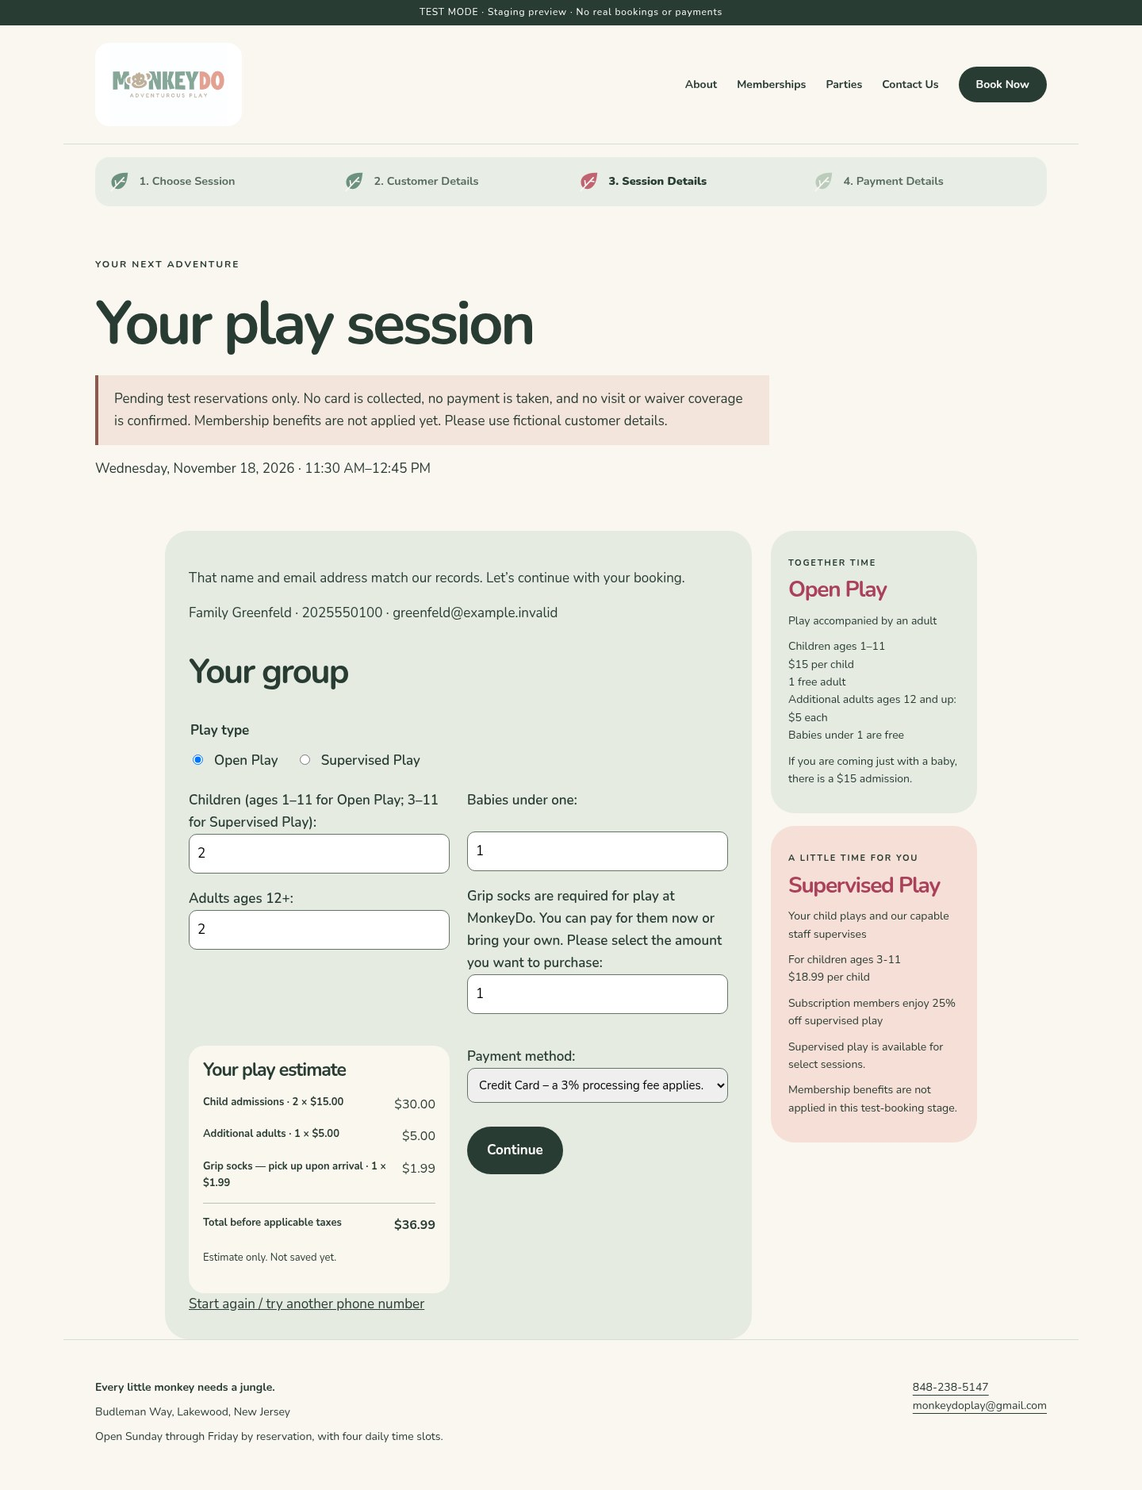
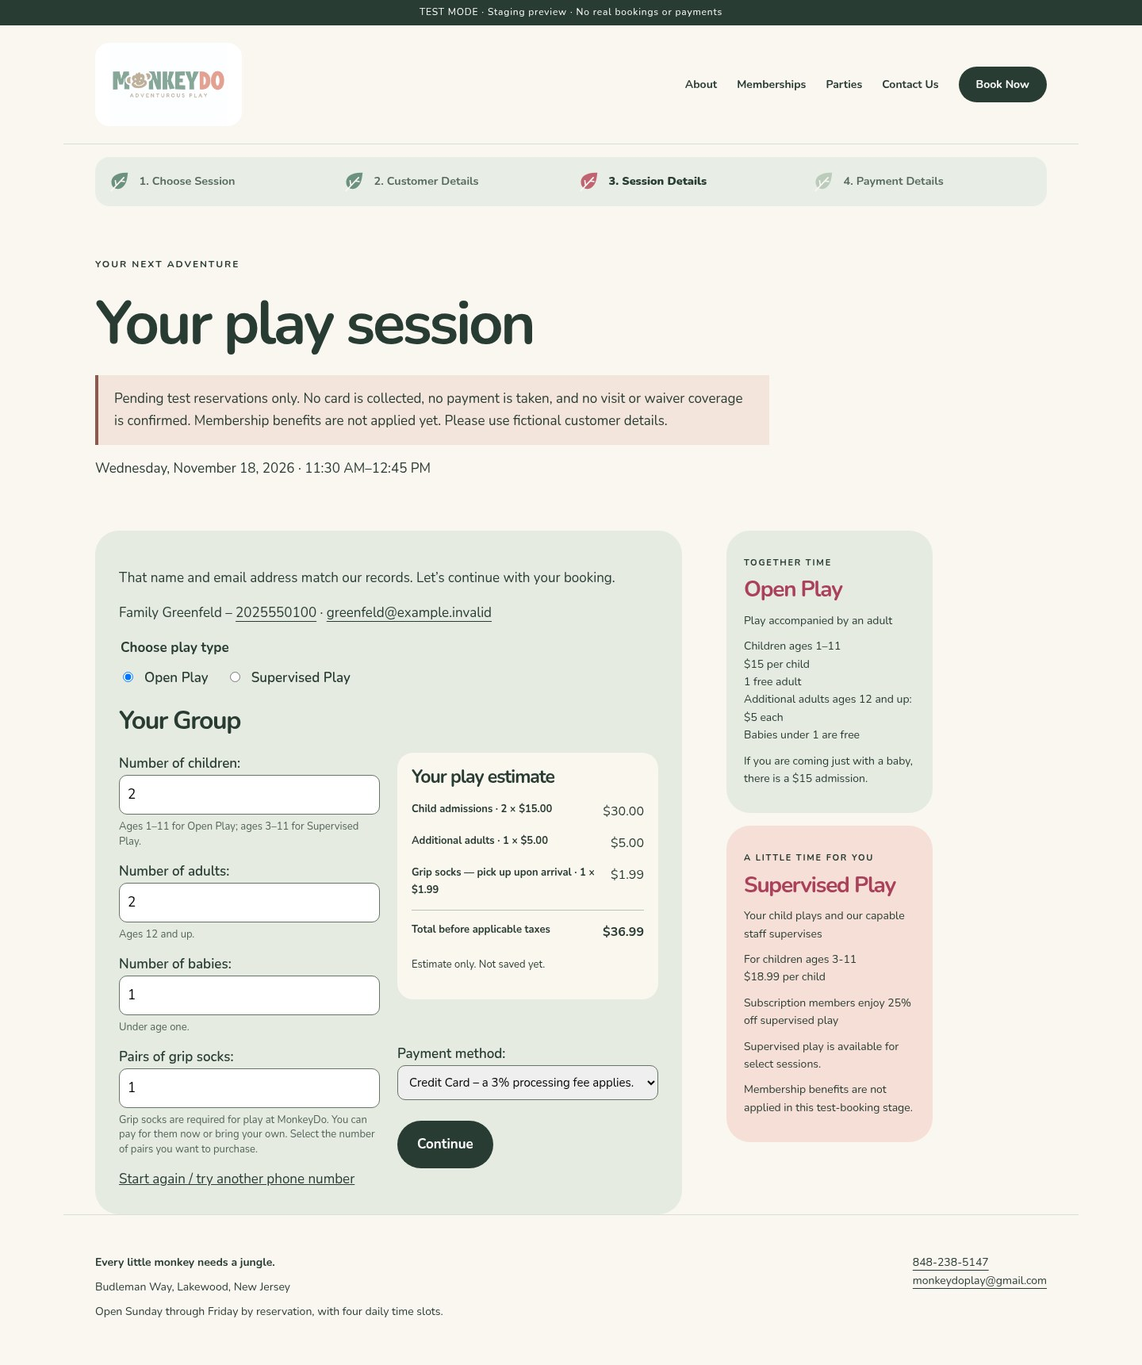
Refine booking form layout and clarify quantity inputs

diff --git a/templates/core/customer_booking.html b/templates/core/customer_booking.html
@@ -18,11 +18,10 @@
 {% if flow.stage == 'conflict_name' %}<p>The email address ‘{{ flow.conflict_email }}’ doesn't match the phone number ‘{{ flow.phone }}’, however we did find it in our system associated with another customer. Please enter your name, and we'll check it against our records.</p>{% endif %}
 {% if flow.stage == 'conflict_stop' %}<ul class="errorlist"><li>{{ flow.conflict_message }}</li></ul>{% endif %}
 {% if flow.stage == 'previous' %}<p>Looks like you've been to Monkey Do in the past. We found a customer record with your number, along with an updated number of {{ flow.current_phone }}. Please confirm if this is your phone number.</p>{% endif %}
-{% if customer %}{% if flow.stage != 'review' %}{% if flow.verification_mode == 'fourth_match' %}<p>{% if flow.verified_by == 'both' %}That name and email address match our records.{% elif flow.verified_by == 'email' %}That email address matches our records.{% else %}That name matches our records.{% endif %} Let’s continue with your booking.</p>{% elif flow.verification_mode == 'previous' %}<p>Please go ahead with your booking.</p>{% elif flow.verification_mode == 'name_confirm' %}<p>Your name confirmation was saved. Please go ahead with your booking.</p>{% elif flow.verification_mode == 'email_confirm' %}<p>Your details match our records. Let’s continue with your booking.</p>{% else %}<p>That name matches our records. Let’s continue with your booking.</p>{% endif %}{% endif %}<p>Family {{ customer.last_name }} · {{ customer.phone }}{% if customer.email %} · {{ customer.email }}{% endif %}</p>{% elif flow.contact %}<p>Family {{ flow.contact.last_name }} · {{ flow.phone }} · {{ flow.contact.email }}</p>{% endif %}
+{% if customer %}{% if flow.stage != 'review' %}{% if flow.verification_mode == 'fourth_match' %}<p>{% if flow.verified_by == 'both' %}That name and email address match our records.{% elif flow.verified_by == 'email' %}That email address matches our records.{% else %}That name matches our records.{% endif %} Let’s continue with your booking.</p>{% elif flow.verification_mode == 'previous' %}<p>Please go ahead with your booking.</p>{% elif flow.verification_mode == 'name_confirm' %}<p>Your name confirmation was saved. Please go ahead with your booking.</p>{% elif flow.verification_mode == 'email_confirm' %}<p>Your details match our records. Let’s continue with your booking.</p>{% else %}<p>That name matches our records. Let’s continue with your booking.</p>{% endif %}{% endif %}{% if flow.stage == 'details' %}<p class="booking-customer-summary">Family {{ customer.last_name }} – <a href="tel:{{ customer.phone }}">{{ customer.phone }}</a>{% if customer.email %} · <a href="mailto:{{ customer.email }}">{{ customer.email }}</a>{% endif %}</p>{% else %}<p>Family {{ customer.last_name }} · {{ customer.phone }}{% if customer.email %} · {{ customer.email }}{% endif %}</p>{% endif %}{% elif flow.contact %}{% if flow.stage == 'details' %}<p class="booking-customer-summary">Family {{ flow.contact.last_name }} – <a href="tel:{{ flow.phone }}">{{ flow.phone }}</a> · <a href="mailto:{{ flow.contact.email }}">{{ flow.contact.email }}</a></p>{% else %}<p>Family {{ flow.contact.last_name }} · {{ flow.phone }} · {{ flow.contact.email }}</p>{% endif %}{% endif %}
 {% if flow.stage == 'email' %}<h2>Add your email address</h2><p>Your customer record doesn’t have an email address yet. Please enter one to continue.</p>{% endif %}
 {% if flow.contact_email %}<p>Email for this booking: {{ flow.contact_email }}</p>{% endif %}
 {% if flow.stage == 'contact' %}<h2>Your details</h2><p>Phone: {{ flow.phone }}</p>{% endif %}
-{% if flow.stage == 'details' %}<h2>Your group</h2>{% endif %}
 {% if flow.stage == 'review' %}<h2>Payment Details</h2>
 <p>{% if flow.details.supervised %}Supervised Play{% else %}Open Play{% endif %} · {{ flow.details.children }} children · {{ flow.details.adults }} adults · {{ flow.details.babies }} babies · {{ flow.details.socks }} pairs of socks</p>
 {% include 'core/quote_items.html' with data=quote %}

diff --git a/static/core/site.css b/static/core/site.css
@@ -923,7 +923,7 @@ input[type="checkbox"],input[type="radio"] { width:auto; padding:0; margin-right
 .table-filters .clear-dates { position:absolute; right:6px; top:4px }
 
 /* Fourth owner-feedback batch: public group layout and compact staff lists. */
-.customer-booking-layout.with-play-info { grid-template-columns:minmax(0,740px) 260px; max-width:1024px; margin-inline:auto }
+.customer-booking-layout.with-play-info { grid-template-columns:minmax(0,740px) 260px; gap:56px; max-width:1056px; margin-inline:0 }
 .public-details-layout { display:grid; grid-template-columns:repeat(2,minmax(0,1fr)); gap:22px; align-items:start }
 .public-play-choice { grid-column:1 / -1; padding:0; border:0; margin:0 }
 .public-play-choice legend { font-weight:700; margin-bottom:10px }
@@ -931,9 +931,13 @@ input[type="checkbox"],input[type="radio"] { width:auto; padding:0; margin-right
 .public-play-choice label { display:flex; align-items:flex-start; gap:6px; margin:0 }
 .public-play-choice label:has(input:disabled) { color:#737c76; cursor:not-allowed }
 .public-play-choice input { flex:none; margin-top:6px }
-.public-attendees,.public-additions,.public-payment { min-width:0 }
-.public-attendees .form-field:first-child label,.public-additions .form-field:first-child label { display:block; min-height:3.1em }
-.public-details-layout .form-field { margin-bottom:18px }
+.public-group-heading { grid-column:1 / -1; margin:0; font-size:32px }
+.public-quantities,.public-right,.public-payment { min-width:0 }
+.public-right { display:flex; flex-direction:column; align-self:stretch; gap:28px }
+.public-right .public-payment { margin-top:auto }
+.public-details-layout .form-field { margin-bottom:14px }
+.public-quantities .field-help { margin:6px 0 0; font-size:13px; line-height:1.45; color:#536459 }
+.booking-customer-summary { overflow-wrap:anywhere }
 .public-details-layout .live-booking-estimate { align-self:start; margin:0 }
 .public-payment .button { margin-top:12px }
 .public-payment select { max-width:100%; font-size:15px }
@@ -953,12 +957,11 @@ input[type="checkbox"],input[type="radio"] { width:auto; padding:0; margin-right
 .page-links a,.page-links .current-page { padding:5px 10px; border-radius:8px }
 .page-links .current-page { background:#293e34; color:#fff; font-weight:700 }
 .page-disabled { color:#69746c; padding:5px 8px }
-@media(max-width:1000px) { .customer-booking-layout.with-play-info { grid-template-columns:minmax(0,1fr) 230px; gap:18px } }
+@media(max-width:1000px) { .customer-booking-layout.with-play-info { grid-template-columns:minmax(0,1fr) 230px; gap:32px } }
 @media(max-width:850px) { .customer-booking-layout.with-play-info { display:block; max-width:740px } .booking-play-info { margin-top:24px; grid-template-columns:repeat(2,minmax(0,1fr)) } }
 @media(max-width:560px) {
  .public-details-layout { display:flex; flex-direction:column; gap:12px }
- .public-details-layout>*,.public-attendees,.public-additions,.public-payment { width:100% }
- .public-attendees .form-field:first-child label,.public-additions .form-field:first-child label { min-height:0 }
+ .public-details-layout>*,.public-quantities,.public-right,.public-payment { width:100% }
  .booking-play-info { grid-template-columns:minmax(0,1fr) }
  .customer-list-search .customer-search-field { flex-basis:100% }
  .staff-pagination { align-items:flex-start }

diff --git a/templates/core/partials/public_details_form.html b/templates/core/partials/public_details_form.html
@@ -1,15 +1,17 @@
-<fieldset class="public-play-choice"><legend>Play type</legend>{{ form.play_type.errors }}{{ form.play_type }}</fieldset>
+<fieldset class="public-play-choice"><legend>Choose play type</legend>{{ form.play_type.errors }}{{ form.play_type }}</fieldset>
 {{ form.non_field_errors }}
-<div class="public-attendees">
+<h2 class="public-group-heading">Your Group</h2>
+<div class="public-quantities">
 {% include 'core/partials/public_field.html' with field=form.children %}
 {% include 'core/partials/public_field.html' with field=form.adults %}
-</div>
-<div class="public-additions">
+
 {% include 'core/partials/public_field.html' with field=form.babies %}
 {% include 'core/partials/public_field.html' with field=form.socks %}
 </div>
+<div class="public-right">
 <aside class="live-booking-estimate" aria-label="Live price estimate"><h3>Your play estimate</h3><div data-public-estimate-content>{% include 'core/partials/live_quote.html' with data=live_quote %}</div><p class="caption" role="status" data-public-estimate-status>Updates as you change your selections.</p></aside>
 <div class="public-payment">
 {% include 'core/partials/public_field.html' with field=form.expected_method %}
 <button class="button">Continue</button>
+</div>
 </div>

diff --git a/templates/core/partials/public_field.html b/templates/core/partials/public_field.html
@@ -1,4 +1,4 @@
 <div class="form-field">
 {{ field.errors }}{{ field.label_tag }}{{ field }}
-{% if field.help_text %}<p class="field-help">{{ field.help_text }}</p>{% endif %}
+{% if field.help_text %}<p class="field-help" id="{{ field.auto_id }}_helptext">{{ field.help_text }}</p>{% endif %}
 </div>

diff --git a/core/public_booking_views.py b/core/public_booking_views.py
@@ -170,10 +170,15 @@ class DetailsForm(forms.Form):
         min_value=0,
         max_value=35,
         initial=1,
-        label="Children (ages 1–11 for Open Play; 3–11 for Supervised Play)",
+        label="Number of children",
+        help_text="Ages 1–11 for Open Play; ages 3–11 for Supervised Play.",
     )
-    adults = forms.IntegerField(min_value=0, max_value=50, initial=1, label="Adults ages 12+")
-    babies = forms.IntegerField(min_value=0, max_value=50, initial=0, label="Babies under one")
+    adults = forms.IntegerField(
+        min_value=0, max_value=50, initial=1, label="Number of adults", help_text="Ages 12 and up."
+    )
+    babies = forms.IntegerField(
+        min_value=0, max_value=50, initial=0, label="Number of babies", help_text="Under age one."
+    )
     socks = forms.IntegerField(min_value=0, max_value=35, initial=0, label="Pairs of grip socks")
     expected_method = forms.ChoiceField(
         choices=Booking._meta.get_field("expected_method").choices, label="Payment method"
@@ -208,7 +213,7 @@ class DetailsForm(forms.Form):
             self.fields["adults"].initial = self.fields["babies"].initial = 0
         self.fields[
             "socks"
-        ].label = "Grip socks are required for play at MonkeyDo. You can pay for them now or bring your own. Please select the amount you want to purchase:"
+        ].help_text = "Grip socks are required for play at MonkeyDo. You can pay for them now or bring your own. Select the number of pairs you want to purchase."
         self.fields["expected_method"].choices = payment_method_choices(
             PricingPolicy.objects.first()
         )

diff --git a/docs/MONKEYDO_REQUIREMENTS.md b/docs/MONKEYDO_REQUIREMENTS.md
@@ -134,7 +134,7 @@ Collect Last Name, phone, email, date/session, baby/child/adult quantities, calc
 
 Validate in browser and server: required fields/consent, nonnegative integer counts, nonzero attendance, adult rule where applicable, card setup unless owner-comped, availability/end time, capacity and permissions. Online waiver must be covered before booking completes; admin/phone bookings may confirm pending.
 
-The visible public progress indicator has four steps: Choose Session, Customer Details, Session Details, Payment Details. Expected payment-method selection stays in Session Details; the breakdown and final reviewed save action live in Payment Details, without a separate visible Review step. Show completion afterward. Add a waiver step only when the approved waiver workflow is implemented. Show an itemized calculation before confirmation. Public Session Details has a read-only live estimate labelled Total before applicable taxes, placed in the lower-left part of the form, with Payment method and Continue parallel on the right. Children/Adults are above left and Babies/Grip socks above right. The live estimate shows only admissions/adults/socks and their base subtotal, excluding both card-processing fees and tax from its rows and total; final Payment Details shows the complete fee/tax-inclusive breakdown. Stack compact Open/Supervised information cards without booking buttons outside the form on desktop and below it on phones. Save immutable price/tax/fee/policy snapshots; an authorized edit creates a new revision with before/after audit, not silent rewriting of the original. Future owner pricing/settings do not alter accepted existing bookings or cohort prices.
+The visible public progress indicator has four steps: Choose Session, Customer Details, Session Details, Payment Details. Expected payment-method selection stays in Session Details; the breakdown and final reviewed save action live in Payment Details, without a separate visible Review step. Show completion afterward. Add a waiver step only when the approved waiver workflow is implemented. Show an itemized calculation before confirmation. Public Session Details has a read-only live estimate labelled Total before applicable taxes, placed at the upper right of the quantity section, with Payment method and Continue below it at the bottom right. All four quantity inputs stack on the left. Show Family/contact links, Choose play type, then Your Group; use quantity labels with separate age guidance. The live estimate shows only admissions/adults/socks and their base subtotal, excluding both card-processing fees and tax from its rows and total; final Payment Details shows the complete fee/tax-inclusive breakdown. Stack compact Open/Supervised information cards without booking buttons outside the form on desktop and below it on phones. Save immutable price/tax/fee/policy snapshots; an authorized edit creates a new revision with before/after audit, not silent rewriting of the original. Future owner pricing/settings do not alter accepted existing bookings or cohort prices.
 
 ## 7. Customers and public identification
 
@@ -363,9 +363,12 @@ review. Only the redesigned customer booking page needs screenshots now; other
 changes will receive owner interactive acceptance after approved deployment.
 See [complete scope/branch matrix](OWNER_EDITS_BATCH_4.md).
 
-- Public Session Details uses narrower fields/panel: Children/Adults upper left,
-  Babies/Grip socks upper right, item-only estimate lower left and Payment
-  method/Continue lower right; responsive phone stacking. Do not show the card's
+- Public Session Details uses a narrower, left-aligned green panel with a clear
+  gap before outside play cards. Show Family/contact links, Choose play type and
+  then Your Group. All four quantity inputs stack on the left; item-only estimate
+  is upper right and Payment method/Continue bottom right. Use Number of
+  children/adults/babies and Pairs of grip socks, with ages in separate help;
+  responsive phone stacking. Do not show the card's
   Check the booking page instruction here; keep homepage/About wording intact.
 - Always show both public play choices; disable/label unavailable ones. Default
   Open when available, Supervised for supervised-only sessions. Public Supervised

diff --git a/docs/OWNER_EDITS_BATCH_4.md b/docs/OWNER_EDITS_BATCH_4.md
@@ -13,7 +13,7 @@ with booking-page image comments; do not merge/deploy before that review.
 | Item | Implemented behavior |
 | --- | --- |
 | 1 | Omit Check the booking page to see which sessions offer it only from the booking-page Supervised Play information card. Preserve homepage/About wording. |
-| 2 | Narrower green booking panel/inputs. Upper left Children/Adults, upper right Babies/Grip socks; lower left item-only estimate, lower right Payment method/Continue. Stack on phones. |
+| 2 | Narrower left-aligned green panel/inputs with a clear gap before outside play cards. Family/contact links, Choose play type, then Your Group. All four quantity fields stack left; estimate upper right and Payment method/Continue bottom right. Quantity labels are explicit; age guidance is separate. Stack on phones. |
 | 3 | Public form always shows Open/Supervised radios; unavailable choices are disabled/labelled. Open is default when available; supervised-only defaults to Supervised. Public Supervised selection resets adults/babies to zero and makes them read-only, with Supervised play is children only popup on attempted change. Restore prior Open values when switching back. Staff retain validation rather than locking. Estimate recalculates after the reset; server still rejects forged/nonzero supervised quantities. |
 | 4 | Customers search input is narrower, with type selector and Search aligned on desktop; All types remains the initial selection. Responsive stacking retains usability. |
 | 5 | Bookings, Today, Customers and Membership drafts have 10/25/50/100 rows, default 25, numbered/Previous/Next links, preserved filters/sort and page-one reset on size/filter change. Today totals/matching count remain independent of the displayed page. |
@@ -71,3 +71,20 @@ checks remain. No hosted change, payment/card/waiver integration, active benefit
 legacy-booking relabelling or next-phase operational development is included.
 The prior next-phase documentation alignment is included in this branch; it
 records plans, not implemented integrations. Homepage design remains unchanged.
+
+
+## Booking-page image review follow-up
+
+The owner replaced the earlier two-by-two quantity arrangement: keep narrow
+spacing, align the green panel left with separation before the outside play cards,
+then Family/contact, Choose play type, and Your Group. All four quantity inputs
+stack on the left; the estimate is upper right and payment/Continue lower right.
+Labels say Number of children/adults/babies and Pairs of grip socks, with ages
+and sock instructions as separate help, so inputs cannot be mistaken for ages.
+Phone/email are linked in the details summary. This supersedes the original
+layout clarification, without changing quantity validation, pricing or matching.
+
+The follow-up passed 41 affected public-booking tests and Chromium layout/control
+checks at 1440px, 390px and 320px. Eight booking-page JPGs were refreshed. The
+prior full suite was 428 tests; GitHub runs the full suite again for the new head.
+This is the same draft PR and still awaits the owner's page-image approval.

diff --git a/docs/design-review/owner-edits-batch-4/README.md b/docs/design-review/owner-edits-batch-4/README.md
@@ -7,7 +7,7 @@ approved deployment. Hosted staging has not changed.
 
 | Booking-page state | Desktop | Phone |
 | --- | --- | --- |
-| Open Play — new two-column fields, estimate left/payment right | [Desktop JPG](01-booking-open-play-desktop.jpg) | [Phone JPG](01-booking-open-play-phone.jpg) |
+| Open Play — four quantity fields left, estimate/payment right | [Desktop JPG](01-booking-open-play-desktop.jpg) | [Phone JPG](01-booking-open-play-phone.jpg) |
 | Supervised Play — adults/babies zero and locked | [Desktop JPG](02-booking-supervised-play-desktop.jpg) | [Phone JPG](02-booking-supervised-play-phone.jpg) |
 | Open-only session — Supervised choice visible but unavailable | [Desktop JPG](03-booking-open-only-session-desktop.jpg) | [Phone JPG](03-booking-open-only-session-phone.jpg) |
 | Supervised-only session — Open choice visible but unavailable | [Desktop JPG](04-booking-supervised-only-session-desktop.jpg) | [Phone JPG](04-booking-supervised-only-session-phone.jpg) |
@@ -23,3 +23,11 @@ Homepage/About imagery and layout are unchanged.
 
 [Implementation/branch rules](../../OWNER_EDITS_BATCH_4.md) ·
 [Browser and image evidence](verification.json)
+
+
+Latest image-review revision: the narrower green panel aligns left with a clear
+gap before the outside cards. Family/contact links precede Choose play type and
+Your Group. Four inputs stack left with explicit quantity labels and separate
+age guidance; the estimate is upper right, payment/Continue bottom right. All
+eight JPGs reflect this revision. The 41 affected public-booking tests and browser
+checks passed; the PR remains a draft for image approval.

diff --git a/docs/STAGING_TEST_PLAN.md b/docs/STAGING_TEST_PLAN.md
@@ -273,8 +273,10 @@ Local developer regression/browser checks passed; owner booking-page screenshot
 review is pending. Other changed pages/scenarios receive owner interactive tests
 after approved deployment, per this batch's explicit review instruction.
 
-- B4-LAYOUT: upper Children/Adults versus Babies/Grip socks, lower estimate versus
-  Payment/Continue; narrower fields/panel, phone stacking and 320px no overflow.
+- B4-LAYOUT: left-aligned narrow panel with outside-card separation; Family/contact,
+  Choose play type and Your Group order. Four quantity fields stack left, estimate
+  upper right and Payment/Continue bottom right. Quantity labels and separate age
+  help, phone stacking and 320px no overflow.
   Check only booking card omits Check the booking page; homepage/About unchanged.
 - B4-PLAY: both radios visible, unavailable disabled, Open default/supervised-only
   exception; public zero/lock/popup/estimate, restored Open counts; forged values

diff --git a/docs/CUSTOMER_BOOKING_DEVELOPMENT.md b/docs/CUSTOMER_BOOKING_DEVELOPMENT.md
@@ -136,8 +136,11 @@ field remains absent.
 
 ## Fourth batch — public layout and scoped verification
 
-The narrower public form groups Children/Adults left and Babies/Grip socks right,
-then estimate left and Payment method/Continue right. Always show both play
+The narrower public panel aligns left with space before the outside play cards.
+Its order is Family/contact links, Choose play type, then Your Group. All four
+quantity inputs stack on the left, with the estimate upper right and Payment
+method/Continue bottom right. Quantity labels are explicit and age guidance is
+separate; this supersedes the initial fourth-batch layout after image review. Always show both play
 choices, disabling unavailable ones. Open defaults when possible; supervised-only
 uses Supervised. Public Supervised sets/locks adults/babies to zero, reports an
 attempted edit with the approved popup and recalculates the estimate. Switching

diff --git a/docs/DECISION_LOG.md b/docs/DECISION_LOG.md
@@ -496,3 +496,14 @@ go-ahead authorizes the whole batch, screenshots now only for the customer booki
 page, and one draft PR updated during review. Other owner acceptance follows
 approved deployment. Full trace: OWNER_EDITS_BATCH_4.md. The previously aligned
 next-stage plan remains planning, not payment/waiver development authorization.
+
+
+## Fourth-batch booking-page image revision
+
+Owner replaced the first quantity layout while retaining narrower spacing: move
+the green panel left, keep space before outside play cards, show Family/contact,
+Choose play type, then Your Group; stack all four quantity inputs left, with
+estimate upper right and payment/Continue bottom right. Explicit quantity labels
+and separate age help remove ambiguity about entering ages. Keep the same draft
+PR and refresh booking-page screenshots only. Matching, calculation, permissions
+and the deployment review boundary are unchanged.

diff --git a/docs/BUILD_STATUS.md b/docs/BUILD_STATUS.md
@@ -11,6 +11,12 @@ requested. Staff/matching flows were exercised without publishing extra screen
 images. The routine browser-ZIP PowerShell handoff passed with transport mocked;
 GitHub PostgreSQL 17/native Windows CI is separate release evidence.
 
+The subsequent booking-image correction left-aligns the panel, places all four
+quantity fields left and estimate/payment right, reorders play choice above
+Your Group and separates age help from quantity labels. It passed 41 affected
+tests and refreshed 1440/390px captures plus 320px checks; the existing full-suite
+result above precedes that presentation follow-up. GitHub rechecks the new head.
+
 The owner requested one draft PR, updated with booking-page image comments before
 marking ready. No hosted deployment or schema change occurred for this batch;
 PR #27 below remains the hosted baseline. No next-phase payment/waiver/active
